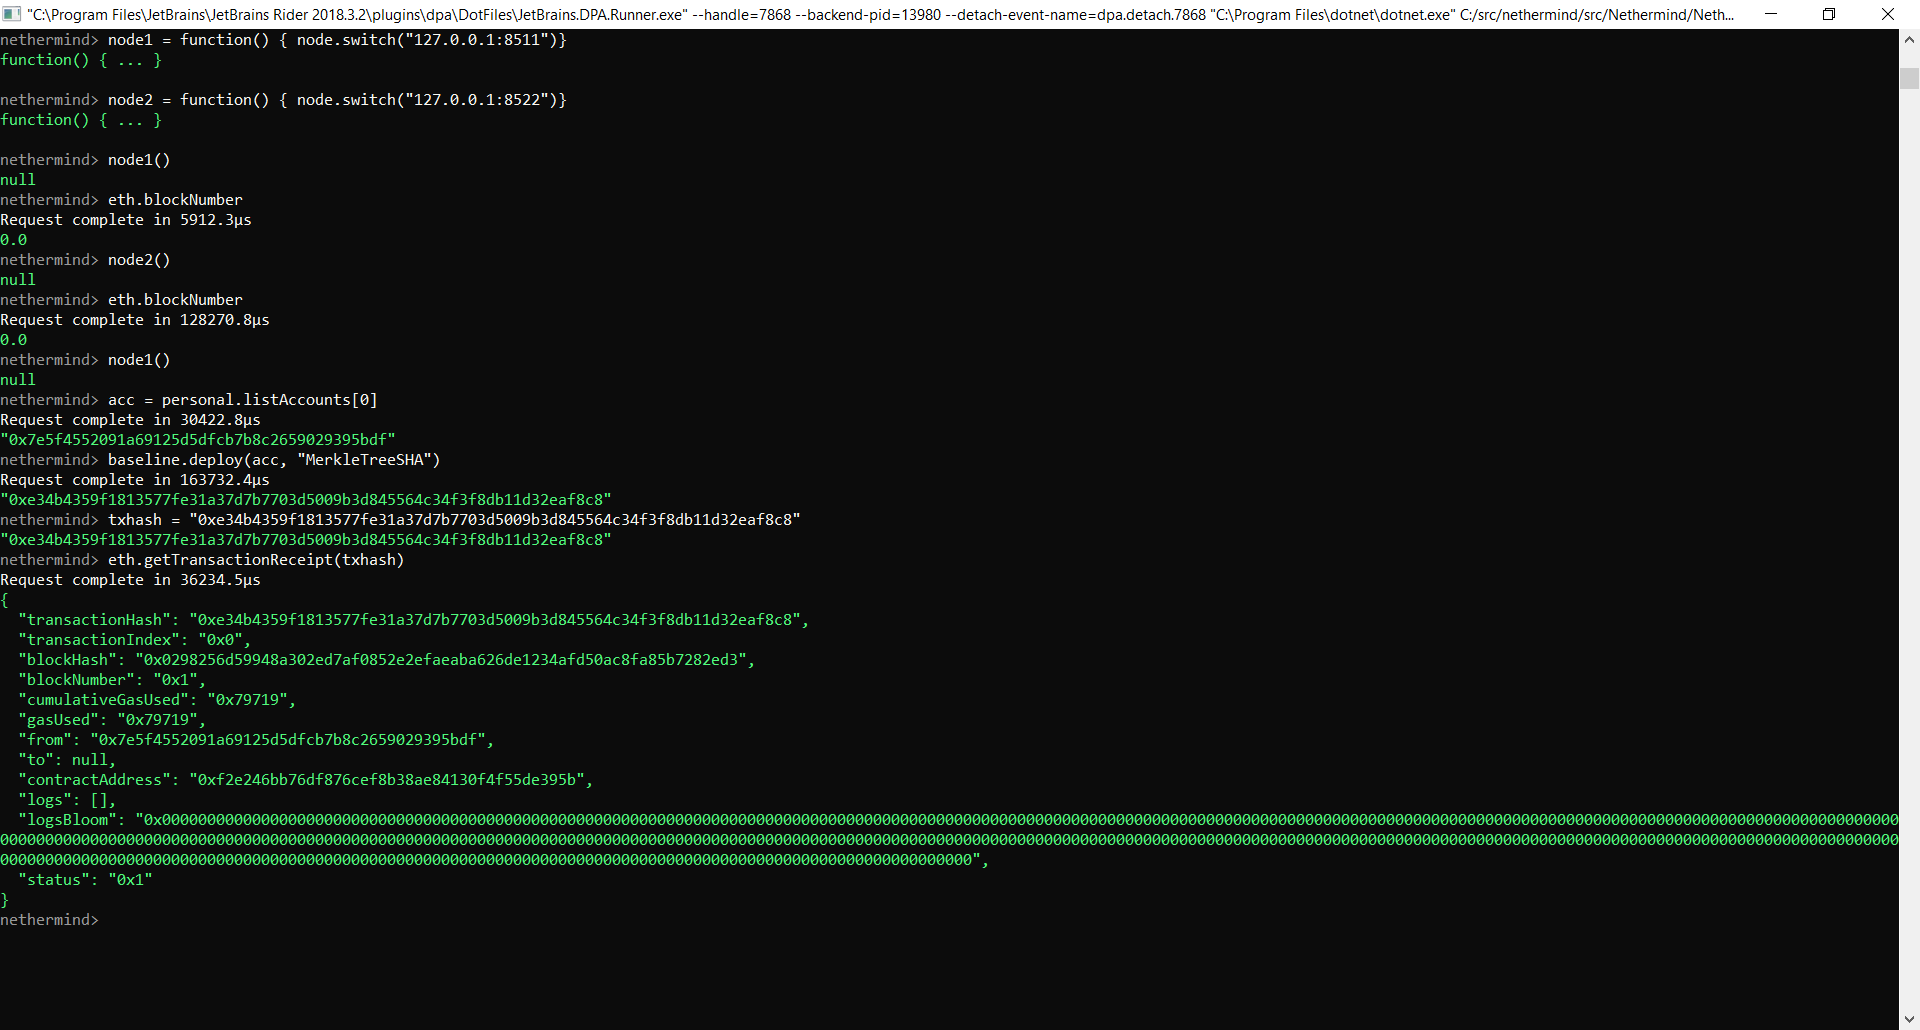
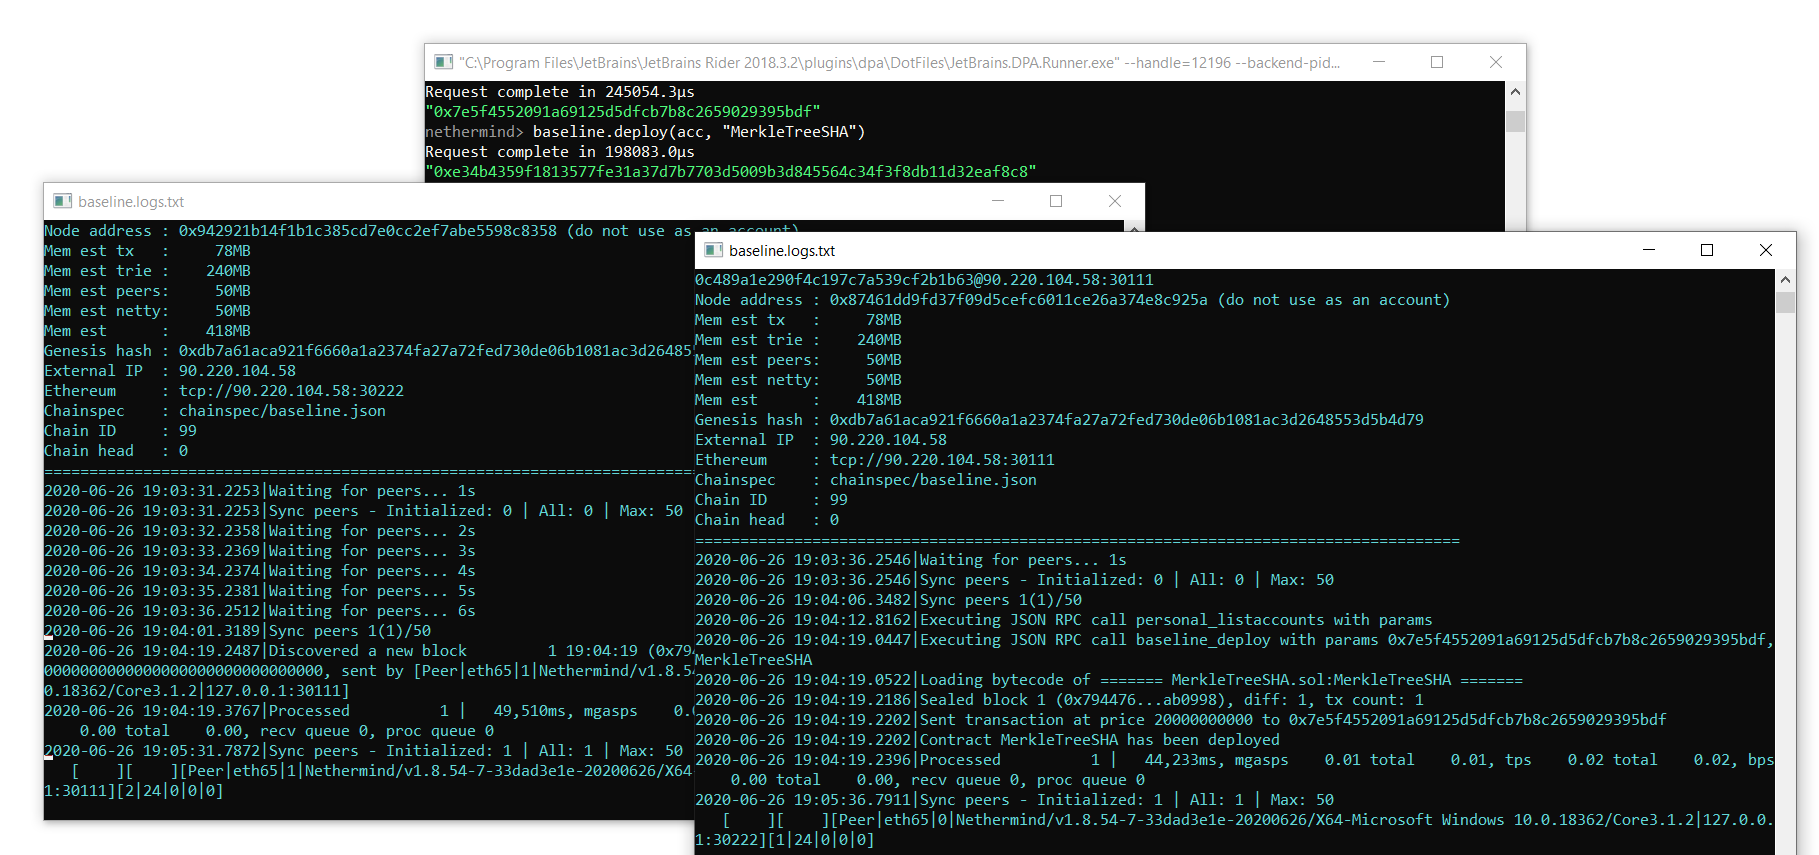
GitBook: [master] one page and 2 assets modified

diff --git a/enterprise/baseline.md b/enterprise/baseline.md
@@ -16,7 +16,13 @@ Launch node B \(the test node keys are consistent with Data/static-nodes-baselin
 ./Nethermind.Runner --config baseline --JsonRpc.Enabled true --JsonRpc.Port 8511 --Network.DiscoveryPort 30111 --Network.P2PPort 30111 --KeyStore.TestNodeKey 120102030405060708090a0b0c0d0e0f000102030405060708090a0b0c0d0e0f
 ```
 
-![Initial connectivity to both nodes and deployment of the baseline tree contract](../.gitbook/assets/image%20%2832%29.png)
+![Initial connectivity to both nodes and deployment of the baseline tree contract](../.gitbook/assets/image%20%2833%29.png)
+
+![Send transaction to one node and the new block will be created and synchronized](../.gitbook/assets/image%20%2832%29.png)
+
+
+
+
 
 
 
